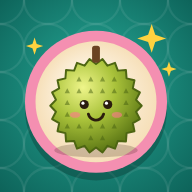
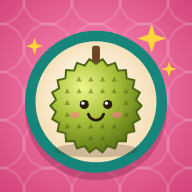
Switch Kueh Pop to a nyonya pink background
- Page background, header chips, timer track and overlays now pink
- Tray rim and dialog rims switch to jade so the board stands out
- App icons regenerated on pink with a jade plate rim
- Manifest theme/background colour updated to #f06a9b
- Service worker cache bumped to v2 so installed copies update

Claude-Session: https://claude.ai/code/session_015Kg64zrUDNK7NQM9TnVq4B

diff --git a/index.html b/index.html
@@ -5,7 +5,7 @@
 <meta name="viewport" content="width=device-width, initial-scale=1, maximum-scale=1, user-scalable=no, viewport-fit=cover">
 <title>Kueh Pop!</title>
 <meta name="description" content="Kueh Pop! A match-3 game with Singapore kueh. Pop as many as you can in 60 seconds.">
-<meta name="theme-color" content="#17867a">
+<meta name="theme-color" content="#f06a9b">
 <link rel="manifest" href="/manifest.webmanifest">
 <link rel="icon" type="image/png" sizes="32x32" href="/icons/favicon-32.png">
 <link rel="icon" type="image/png" sizes="48x48" href="/icons/favicon-48.png">
@@ -23,8 +23,8 @@
    COLOUR and TYPE: jade tile ground, nyonya pink rim, gold accent; Baloo 2
    LAYOUT: thumb-first column — score + timer, square tray, buttons at the bottom */
 :root{color-scheme:light dark;
- --bg:light-dark(#17867a,#0b2f2c);--bg2:light-dark(#0f6b61,#123f3a);
- --ink:#fffdf6;--tray:light-dark(#fff1d6,#1c4a45);--rim:light-dark(#f48fb1,#c2507f);
+ --bg:light-dark(#f06a9b,#6e1a3f);--bg2:light-dark(#d94a80,#561431);
+ --ink:#fffdf6;--tray:light-dark(#fff1d6,#1c4a45);--rim:light-dark(#17867a,#1d9a8c);
  --gold:#ffd23f;--pink:#ff5d8f;--pinkd:#b0205a;
  --card:light-dark(#fffaf0,#14302d);--cardink:light-dark(#3a1f2b,#f6eee6);--muted:light-dark(#7a5a66,#b9cfc9)}
 :root[data-theme=light]{color-scheme:light}:root[data-theme=dark]{color-scheme:dark}
@@ -33,33 +33,33 @@ html,body{height:100%}
 body{margin:0;color:var(--ink);font:16px/1.4 "Baloo 2",ui-rounded,system-ui,sans-serif;overflow:hidden;
  -webkit-user-select:none;user-select:none;-webkit-tap-highlight-color:transparent;overscroll-behavior:none;touch-action:manipulation;
  background:
-  radial-gradient(circle at 50% 50%,rgba(255,210,63,.22) 0 5px,transparent 6px),
-  radial-gradient(circle at 0 0,rgba(255,93,143,.2) 0 13px,transparent 14px),
-  radial-gradient(circle at 100% 0,rgba(255,93,143,.2) 0 13px,transparent 14px),
-  radial-gradient(circle at 0 100%,rgba(255,93,143,.2) 0 13px,transparent 14px),
-  radial-gradient(circle at 100% 100%,rgba(255,93,143,.2) 0 13px,transparent 14px),
+  radial-gradient(circle at 50% 50%,rgba(255,210,63,.45) 0 5px,transparent 6px),
+  radial-gradient(circle at 0 0,rgba(255,255,255,.16) 0 13px,transparent 14px),
+  radial-gradient(circle at 100% 0,rgba(255,255,255,.16) 0 13px,transparent 14px),
+  radial-gradient(circle at 0 100%,rgba(255,255,255,.16) 0 13px,transparent 14px),
+  radial-gradient(circle at 100% 100%,rgba(255,255,255,.16) 0 13px,transparent 14px),
   var(--bg);background-size:56px 56px}
 .app{height:100vh;height:100dvh;max-width:620px;margin:0 auto;display:flex;flex-direction:column;gap:8px;
  padding:max(10px,env(safe-area-inset-top)) max(12px,env(safe-area-inset-right)) max(10px,env(safe-area-inset-bottom)) max(12px,env(safe-area-inset-left))}
 header{display:flex;align-items:center;gap:10px}
 h1{margin:0;font-size:clamp(28px,8vw,40px);line-height:1;font-weight:800;text-shadow:0 3px 0 var(--pinkd);flex:1;white-space:nowrap}
-.chip{background:rgba(0,0,0,.22);border-radius:14px;padding:4px 12px;text-align:center;min-width:76px}
+.chip{background:rgba(110,10,50,.28);border-radius:14px;padding:4px 12px;text-align:center;min-width:76px}
 .chip small{display:block;font-size:13px;opacity:.85;line-height:1.1}
 .chip b{font-size:22px;line-height:1.1;font-variant-numeric:tabular-nums}
-.timer{position:relative;height:26px;border-radius:99px;background:rgba(0,0,0,.28);overflow:hidden}
+.timer{position:relative;height:26px;border-radius:99px;background:rgba(110,10,50,.32);overflow:hidden}
 #bar{height:100%;width:100%;border-radius:99px;background:linear-gradient(90deg,var(--gold),#7ee07a)}
 .timer span{position:absolute;inset:0;display:grid;place-items:center;font-weight:800;font-size:17px;text-shadow:0 1px 2px rgba(0,0,0,.5)}
-.timer.hurry #bar{background:linear-gradient(90deg,var(--pink),#ff9f6b);animation:pulse .5s ease-in-out infinite alternate}
+.timer.hurry #bar{background:linear-gradient(90deg,#e8361f,#ffb04a);animation:pulse .5s ease-in-out infinite alternate}
 @keyframes pulse{to{opacity:.6}}
 #wrap{flex:1;min-height:0;display:grid;place-items:center;padding:9px}
 canvas#board{display:block;border-radius:18px;background:var(--tray);touch-action:none;
  box-shadow:0 0 0 7px var(--rim),0 0 0 10px rgba(255,255,255,.25),0 14px 30px rgba(0,0,0,.35)}
 .bottom{display:flex;align-items:center;gap:10px}
 .bottom p{flex:1;margin:0;font-size:14px;opacity:.9;line-height:1.2}
-.ib{width:48px;height:48px;border-radius:50%;border:0;background:rgba(0,0,0,.25);color:#fff;display:grid;place-items:center;cursor:pointer}
+.ib{width:48px;height:48px;border-radius:50%;border:0;background:rgba(110,10,50,.3);color:#fff;display:grid;place-items:center;cursor:pointer}
 .ib svg{width:24px;height:24px}
 .ib:focus-visible,.btn:focus-visible{outline:3px solid var(--gold);outline-offset:2px}
-.ov{position:fixed;inset:0;display:grid;place-items:center;background:rgba(6,36,32,.55);backdrop-filter:blur(3px);-webkit-backdrop-filter:blur(3px);z-index:5;padding:16px}
+.ov{position:fixed;inset:0;display:grid;place-items:center;background:rgba(90,10,45,.5);backdrop-filter:blur(3px);-webkit-backdrop-filter:blur(3px);z-index:5;padding:16px}
 .ov[hidden]{display:none}
 .card{width:100%;max-width:420px;max-height:92dvh;overflow:auto;background:var(--card);color:var(--cardink);border-radius:26px;padding:22px 20px;text-align:center;
  box-shadow:0 0 0 6px var(--rim),0 20px 50px rgba(0,0,0,.4)}

diff --git a/sw.js b/sw.js
@@ -1,6 +1,6 @@
 // Kueh Pop! service worker: makes the game load instantly and work offline.
 // Bump VERSION whenever you change index.html or the icons, so phones pick up the update.
-const VERSION = 'kueh-pop-v1';
+const VERSION = 'kueh-pop-v2';
 const FONTS = 'kueh-pop-fonts';
 const CORE = [
   '/',
